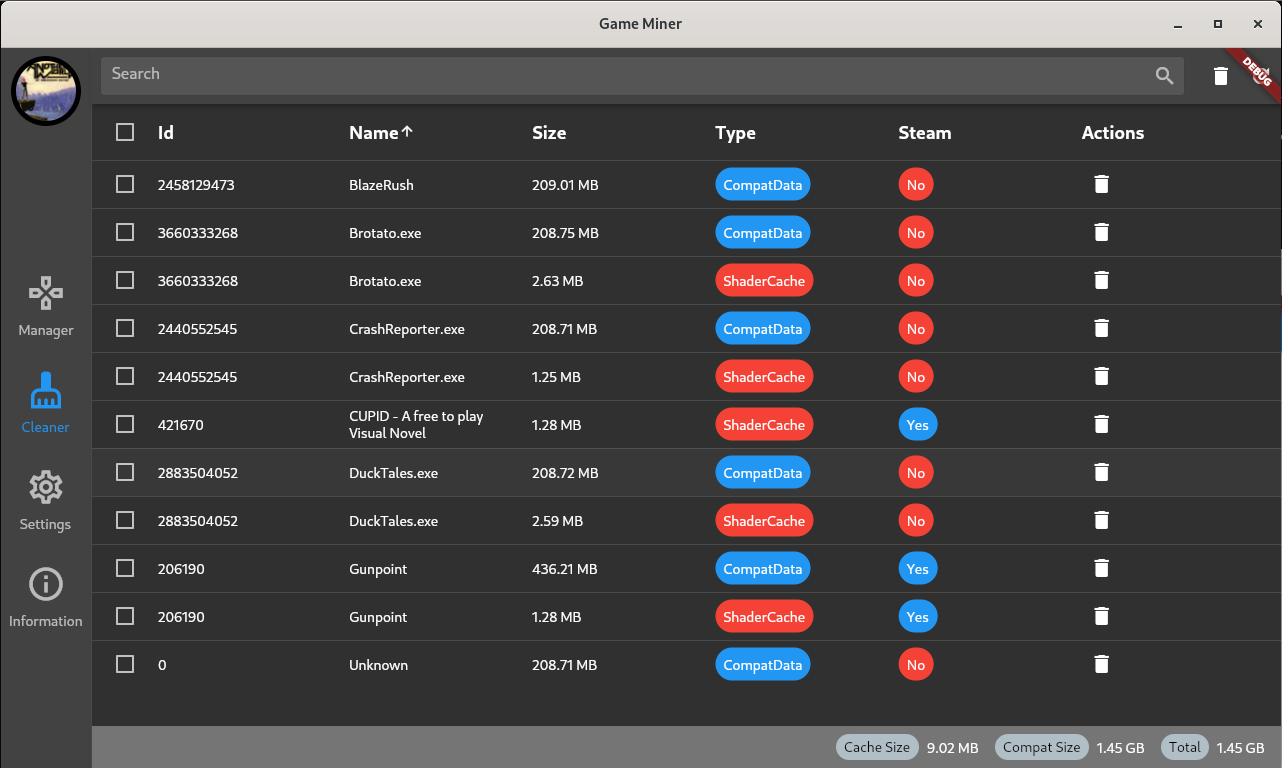
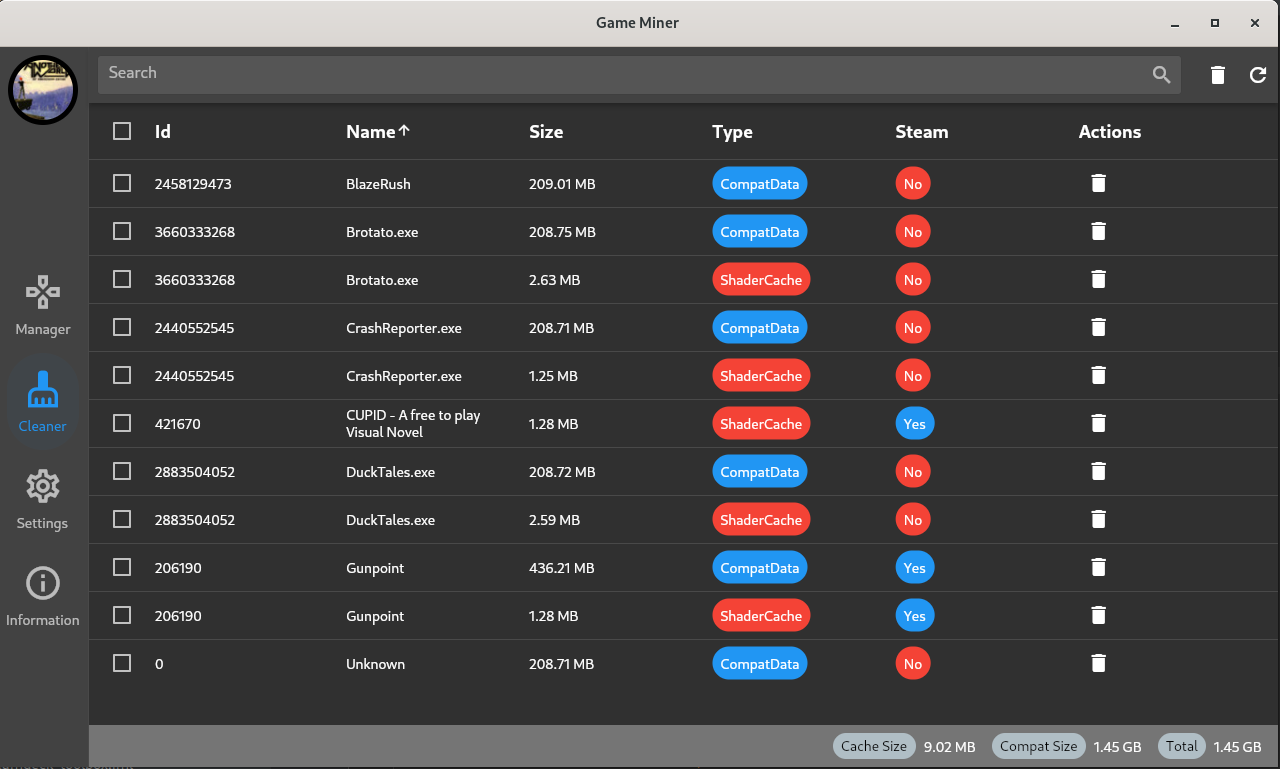
More images

diff --git a/lib/main.dart b/lib/main.dart
@@ -82,6 +82,7 @@ class MyApp extends StatelessWidget {
         initialData: Settings(), //PLACEHOLDER
         builder: (context, AsyncSnapshot<Settings> snapshot) {
           return MaterialApp(
+            debugShowCheckedModeBanner: false,
             localizationsDelegates: context.localizationDelegates,
             supportedLocales: context.supportedLocales,
             locale: context.locale,
